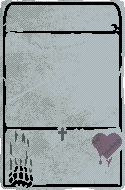
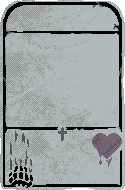
Pre-release continued
new art

diff --git a/README.md b/README.md
@@ -4,5 +4,6 @@ Mod for inscryption adding tribes to every card, including all temples and acts,
 
 # Credits
 
-- Donut: Art (Salmon)
 - Prof.Eggnog: Art (All non-Nature temple-based card backgrounds)
+- Donut: Art (Salmon)
+- Kai: Art (Singular moxes)
